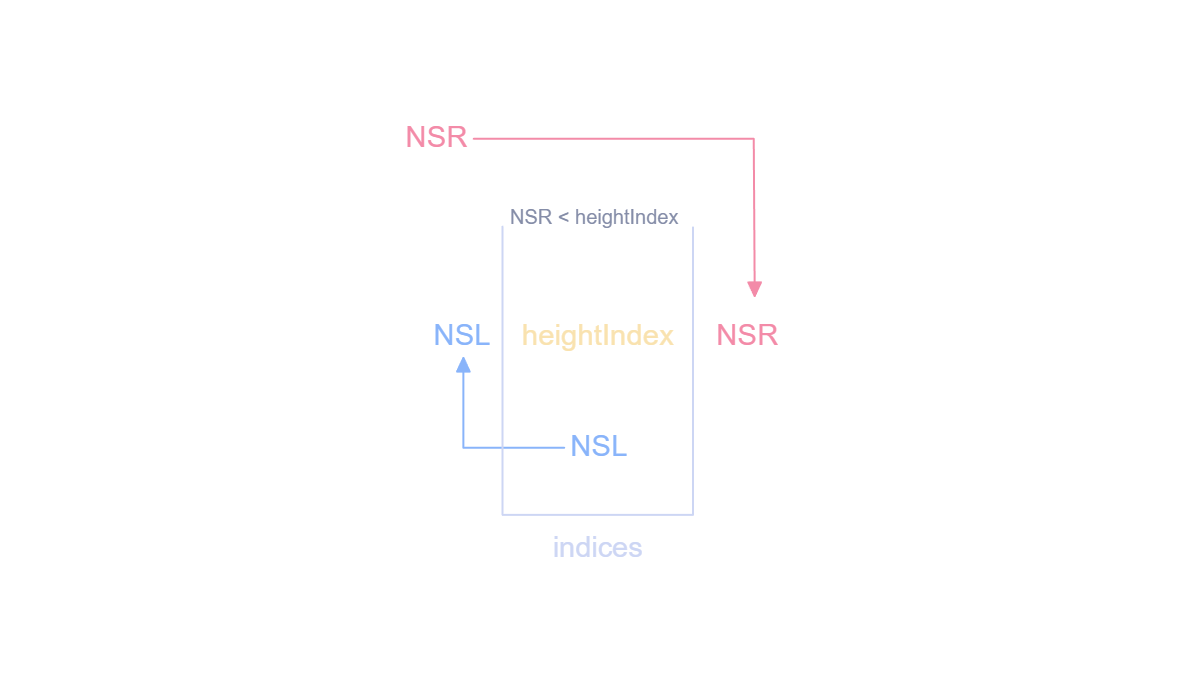
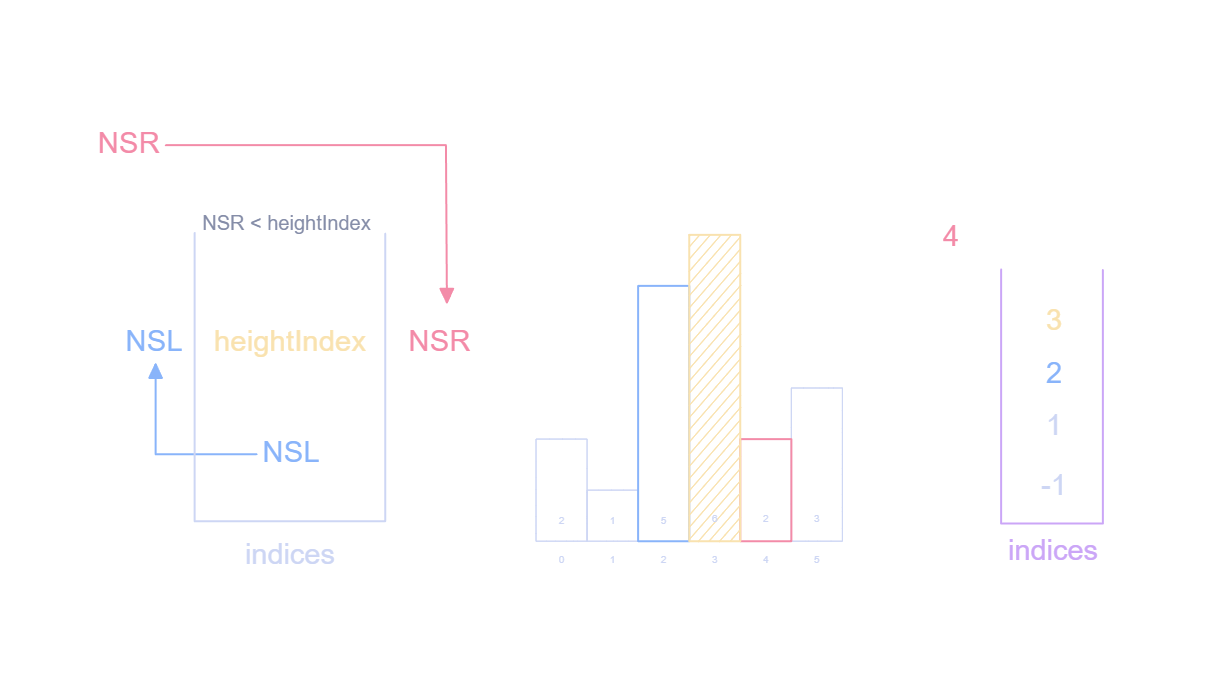
MyREADME actualizacion

diff --git a/Libreria_cc232/Semana5/latorre_brian_pc2/MyREADME.md b/Libreria_cc232/Semana5/latorre_brian_pc2/MyREADME.md
@@ -53,21 +53,41 @@ Puntos adicionales que lleva este problema:
 - Área máxima: Al querer el máximo valor, no necesitamos observar todos los casos. Para hallar el área máxima necesitamos que se maximicen tanto la base como la altura. Por eso pasamos por cada índice, pasamos por todas las alturas posibles y maximizamos las bases buscando los índices que nos límita el crecimiento de la base cambiando la altura tanto a la izquierda como a la derecha, siendo esos las fronteras hasta donde crece la base del rectángulo con altura "h". 
 ![](imagenes/dia3_maximizar_area.png)
 
-**Cálculo de la base**: 
+**Cálculo de NSR**:
 
-$$base = i - stack.top() - 1$$
+Nearest Smaller to Right
 
-Luego, se hace pop()
+$$NSR = i$$
 
-![](imagenes/dia5_explicacion_NSLNSR.png)
+Siendo i el índice del elemento que se quiere ingresar a la pila pero es menor al tope.
+
+**Cálculo de la altura**:
+
+Sería el elemento que está en el tope cuando se quiere ingresar un nuevo valor.
+
+$$h = stack.top()$$
 
 **Cálculo de NSL**:
 
-$$NSL = stack.top$$
+Nearest Smaller to Left
 
-**Cálculo de NSR**:
+$$NSL = stack.top()$$
 
-$$NSR = i$$
+Se consigue luego de haber sacado a la altura de la pila.
+
+**Cálculo de la base**: 
+
+$$base = NSR - NSL - 1$$
+
+Luego, se hace pop()
+
+**Cálculo del Rectángulo**:
+
+$$\text{Rectángulo} = \text{base} \times \text{h}$$
+
+![](imagenes/dia5_explicacion_NSLNSR.png)
+ 
+ Imágen visual de cómo se ve la pila cuando se intenta ingresar uno menor y cómo comienza a establecerse valores.
 
 #### Día 4
 
